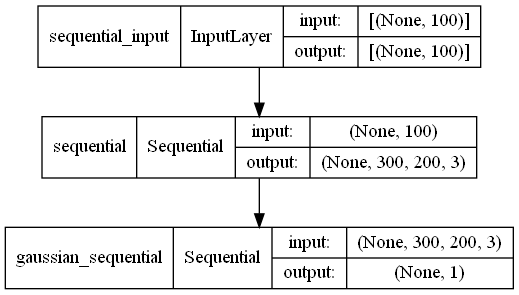
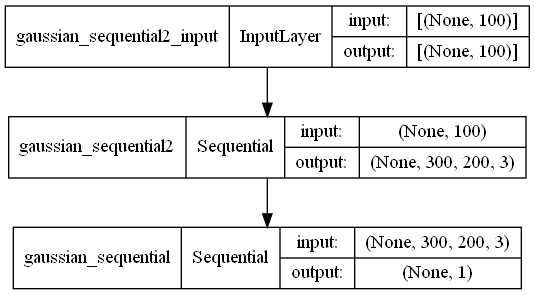
LR, tensorflow.keras, other stuff

diff --git a/gan/armorGAN.py b/gan/armorGAN.py
@@ -109,6 +109,7 @@ def generate_fake_samples(g_model, latent_dim, n_samples, num_channels):
 
 
 def define_gan(g_model, d_model):
+	c = hparams.Config()
 	# make weights in the discriminator not trainable
 	d_model.trainable = False
 	# connect them
@@ -118,7 +119,7 @@ def define_gan(g_model, d_model):
 	# add the discriminator
 	model.add(d_model)
 	# compile model
-	opt = Adam(learning_rate=0.0002, beta_1=0.5)
+	opt = Adam(learning_rate=c.LR_INITIAL, beta_1=0.5)
 	model.compile(loss='binary_crossentropy', optimizer=opt)
 	return model
 
@@ -155,6 +156,11 @@ def train(g_model, d_model, gan_model, dataset, latent_dim, n_epochs=100, n_batc
 			# create inverted labels for the fake samples
 			if c.LABEL_SMOOTHING:
 				y_gan = np.full((n_batch, 1), 0.9)
+				if c.LABEL_NOISE:
+					label_noise = np.array(
+						np.random.uniform(low=-c.LABEL_NOISE_VAR, high=c.LABEL_NOISE_VAR, size=n_batch))
+					y_gan = y_gan[0] + label_noise
+					y_gan = np.expand_dims(y_gan, axis=-1)
 			else:
 				y_gan = np.ones((n_batch, 1))
 			# update the generator via the discriminator's error
@@ -164,7 +170,9 @@ def train(g_model, d_model, gan_model, dataset, latent_dim, n_epochs=100, n_batc
 
 		if (i + 1) % c.LR_DECREASE_AFTER == 0:
 			if c.LR_DECREASE:
-				K.set_value(gan_model.optimizer.learning_rate, 0.00002)
+				print("Updating Learning rate...")
+				K.set_value(gan_model.optimizer.learning_rate, gan_model.optimizer.learning_rate * c.LR_DECREASE_CONST)
+				K.set_value(d_model.optimizer.learning_rate, d_model.optimizer.learning_rate * c.LR_DECREASE_CONST)
 
 		if (i + 1) % c.GEN_CHECKPOINT == 0:
 			if c.SUMMARIZE_PERFORMANCE:

diff --git a/utils/modify_model.py b/utils/modify_model.py
@@ -3,14 +3,15 @@ from tensorflow.keras.models import load_model
 from tensorflow.keras.optimizers import Adam
 from tensorflow.keras.layers import GaussianNoise
 
+# Adds gaussian noise layer before every conv2D operation
 def add_gaussian_noise_disc(path_to_discriminator, path_to_output):
     old_model = load_model(path_to_discriminator)
-    new_model = Sequential(name="gaussian_sequential") # Need to set a name, otherwise it will conflict
+    new_model = Sequential(name="gaussian_sequential2") # Need to set a name, otherwise it will conflict
 
     for layer in old_model.layers:
         if "conv2d" in layer.name:
             s = layer.get_input_shape_at(0)
-            new_model.add(GaussianNoise(0.1, input_shape=(s[1], s[2], s[3])))
+            new_model.add(GaussianNoise(0.1, input_shape=(s[1], s[2], s[3])), seed=42)
         new_model.add(layer)
         new_model.layers[-1].set_weights(layer.get_weights())
 
@@ -29,8 +30,6 @@ def add_gaussian_noise_disc(path_to_discriminator, path_to_output):
     new_model.save(path_to_output)
     return new_model
 
-
-m = load_model("../checkpoints/discriminator_model_323_1900.h5")
-n = add_gaussian_noise_disc("../checkpoints/discriminator_model_323_1900.h5", "../checkpoints/discriminator_model_gauss_1900.h5")
+n = add_gaussian_noise_disc("../checkpoints/generator_model_323_2400.h5", "../checkpoints/generator_model_gauss_2400.h5")
 
 n.summary()

diff --git a/hparams/hparams.py b/hparams/hparams.py
@@ -16,6 +16,7 @@ class Config:
         self.SUMMARIZE_PERFORMANCE = False
 
         # Optimization hyperparameters
+        self.LR_INITIAL = 0.00002
         self.LR_DECREASE = True
         self.LR_DECREASE_AFTER = 1000
         self.LR_DECREASE_CONST = 0.1
@@ -29,15 +30,15 @@ class Config:
         # ie [0.8, 1] for real samples and [0, 0.2] for fake samples
         self.LABEL_SMOOTHING = True
         self.LABEL_NOISE = True
-        self.LABEL_NOISE_VAR = 0.1 # (The +- range from 0.1 and 0.9)
+        self.LABEL_NOISE_VAR = 0.15 # (The +- range from 0.1 and 0.9)
 
         # Adding noise to discriminator inputs
         self.DISC_NOISE_INPUT = True
-        self.DISC_NOISE_VAR = (1 / 255.0) ** 2
+        self.DISC_NOISE_VAR = 1 / 255.0
 
+        # Adding noise to all discriminator layers (does not work only by enabling this)
         self.DISC_NOISE_ALL = True
         self.DISC_NOISE_LAYER_VAR = 0.1
-
 
         # Keep only Zandalari Trolls training images
         self.ONLY_ZANDALARI = True

diff --git a/main.py b/main.py
@@ -5,7 +5,7 @@ from preprocessing import preprocess
 from preprocessing import generator
 from hparams import hparams
 from gan import armorGAN
-from keras.models import load_model
+from tensorflow.keras.models import load_model
 from keras.utils.vis_utils import plot_model
 
 def main():
@@ -75,4 +75,4 @@ def resume_training(path_to_generator, path_to_discriminator, start_from_epoch):
     armorGAN.train(gan_generator, gan_discriminator, gan, images, config.LATENT_DIM, config.EPOCHS, config.BATCH_SIZE, config.IMG_CHANNELS, resumed=start_from_epoch)
 
 #main()
-resume_training('checkpoints/generator_model_323_1700.h5', "checkpoints/discriminator_model_323_1700.h5", 1700)
+resume_training('checkpoints/generator_model_323_2400.h5', "checkpoints/discriminator_model_323_2400.h5", 2400)

diff --git a/inspector.py b/inspector.py
@@ -1,7 +1,7 @@
 import numpy as np
 import cv2
 import argparse
-from keras.models import load_model
+from tensorflow.keras.models import load_model
 from preprocessing import generator
 from hparams import hparams
 
